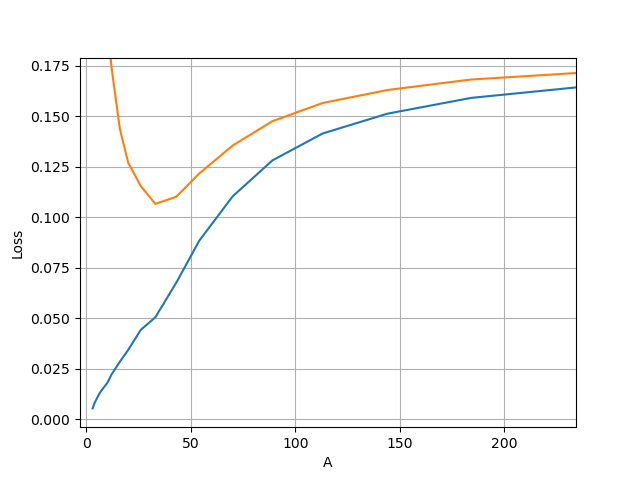
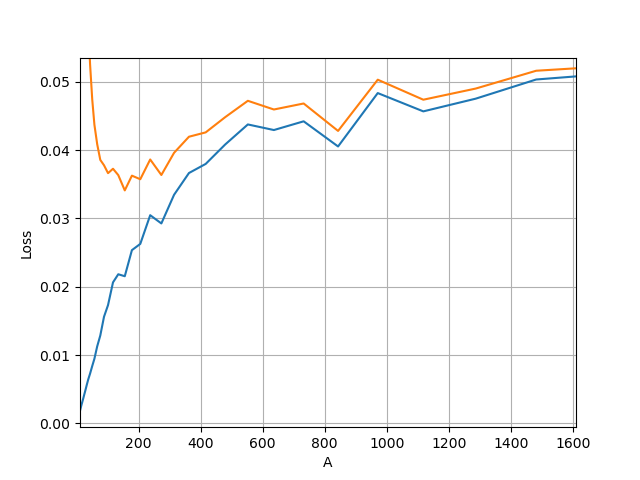
Gold -> fixed data

diff --git a/example_gold/2_simulate_A.py b/example_gold/2_simulate_A.py
@@ -5,7 +5,7 @@ from libsimulate import scan_param, plot_losses
 if __name__ == '__main__':
     results = scan_param(
         'example_gold/xauusd-1m.json.gz',
-        A=sorted(set([int(a) for a in logspace(log10(3), log10(300), 20)])),
+        A=sorted(set([int(a) for a in logspace(log10(3), log10(3000), 50)])),
         range_size=4,
         fee=0.004,
         Texp=600,

diff --git a/example_gold/plot-price.py b/example_gold/plot-price.py
@@ -1,0 +1,16 @@
+#!/usr/bin/env python3
+
+import numpy as np
+import gzip
+import json
+import pylab
+
+
+with gzip.open('xauusd-1m.json.gz', 'r') as f:
+    data = json.load(f)
+
+t = np.array([x[0] for x in data])
+p = np.array([x[1] for x in data])
+
+pylab.plot(t[::1000], p[::1000])
+pylab.show()
